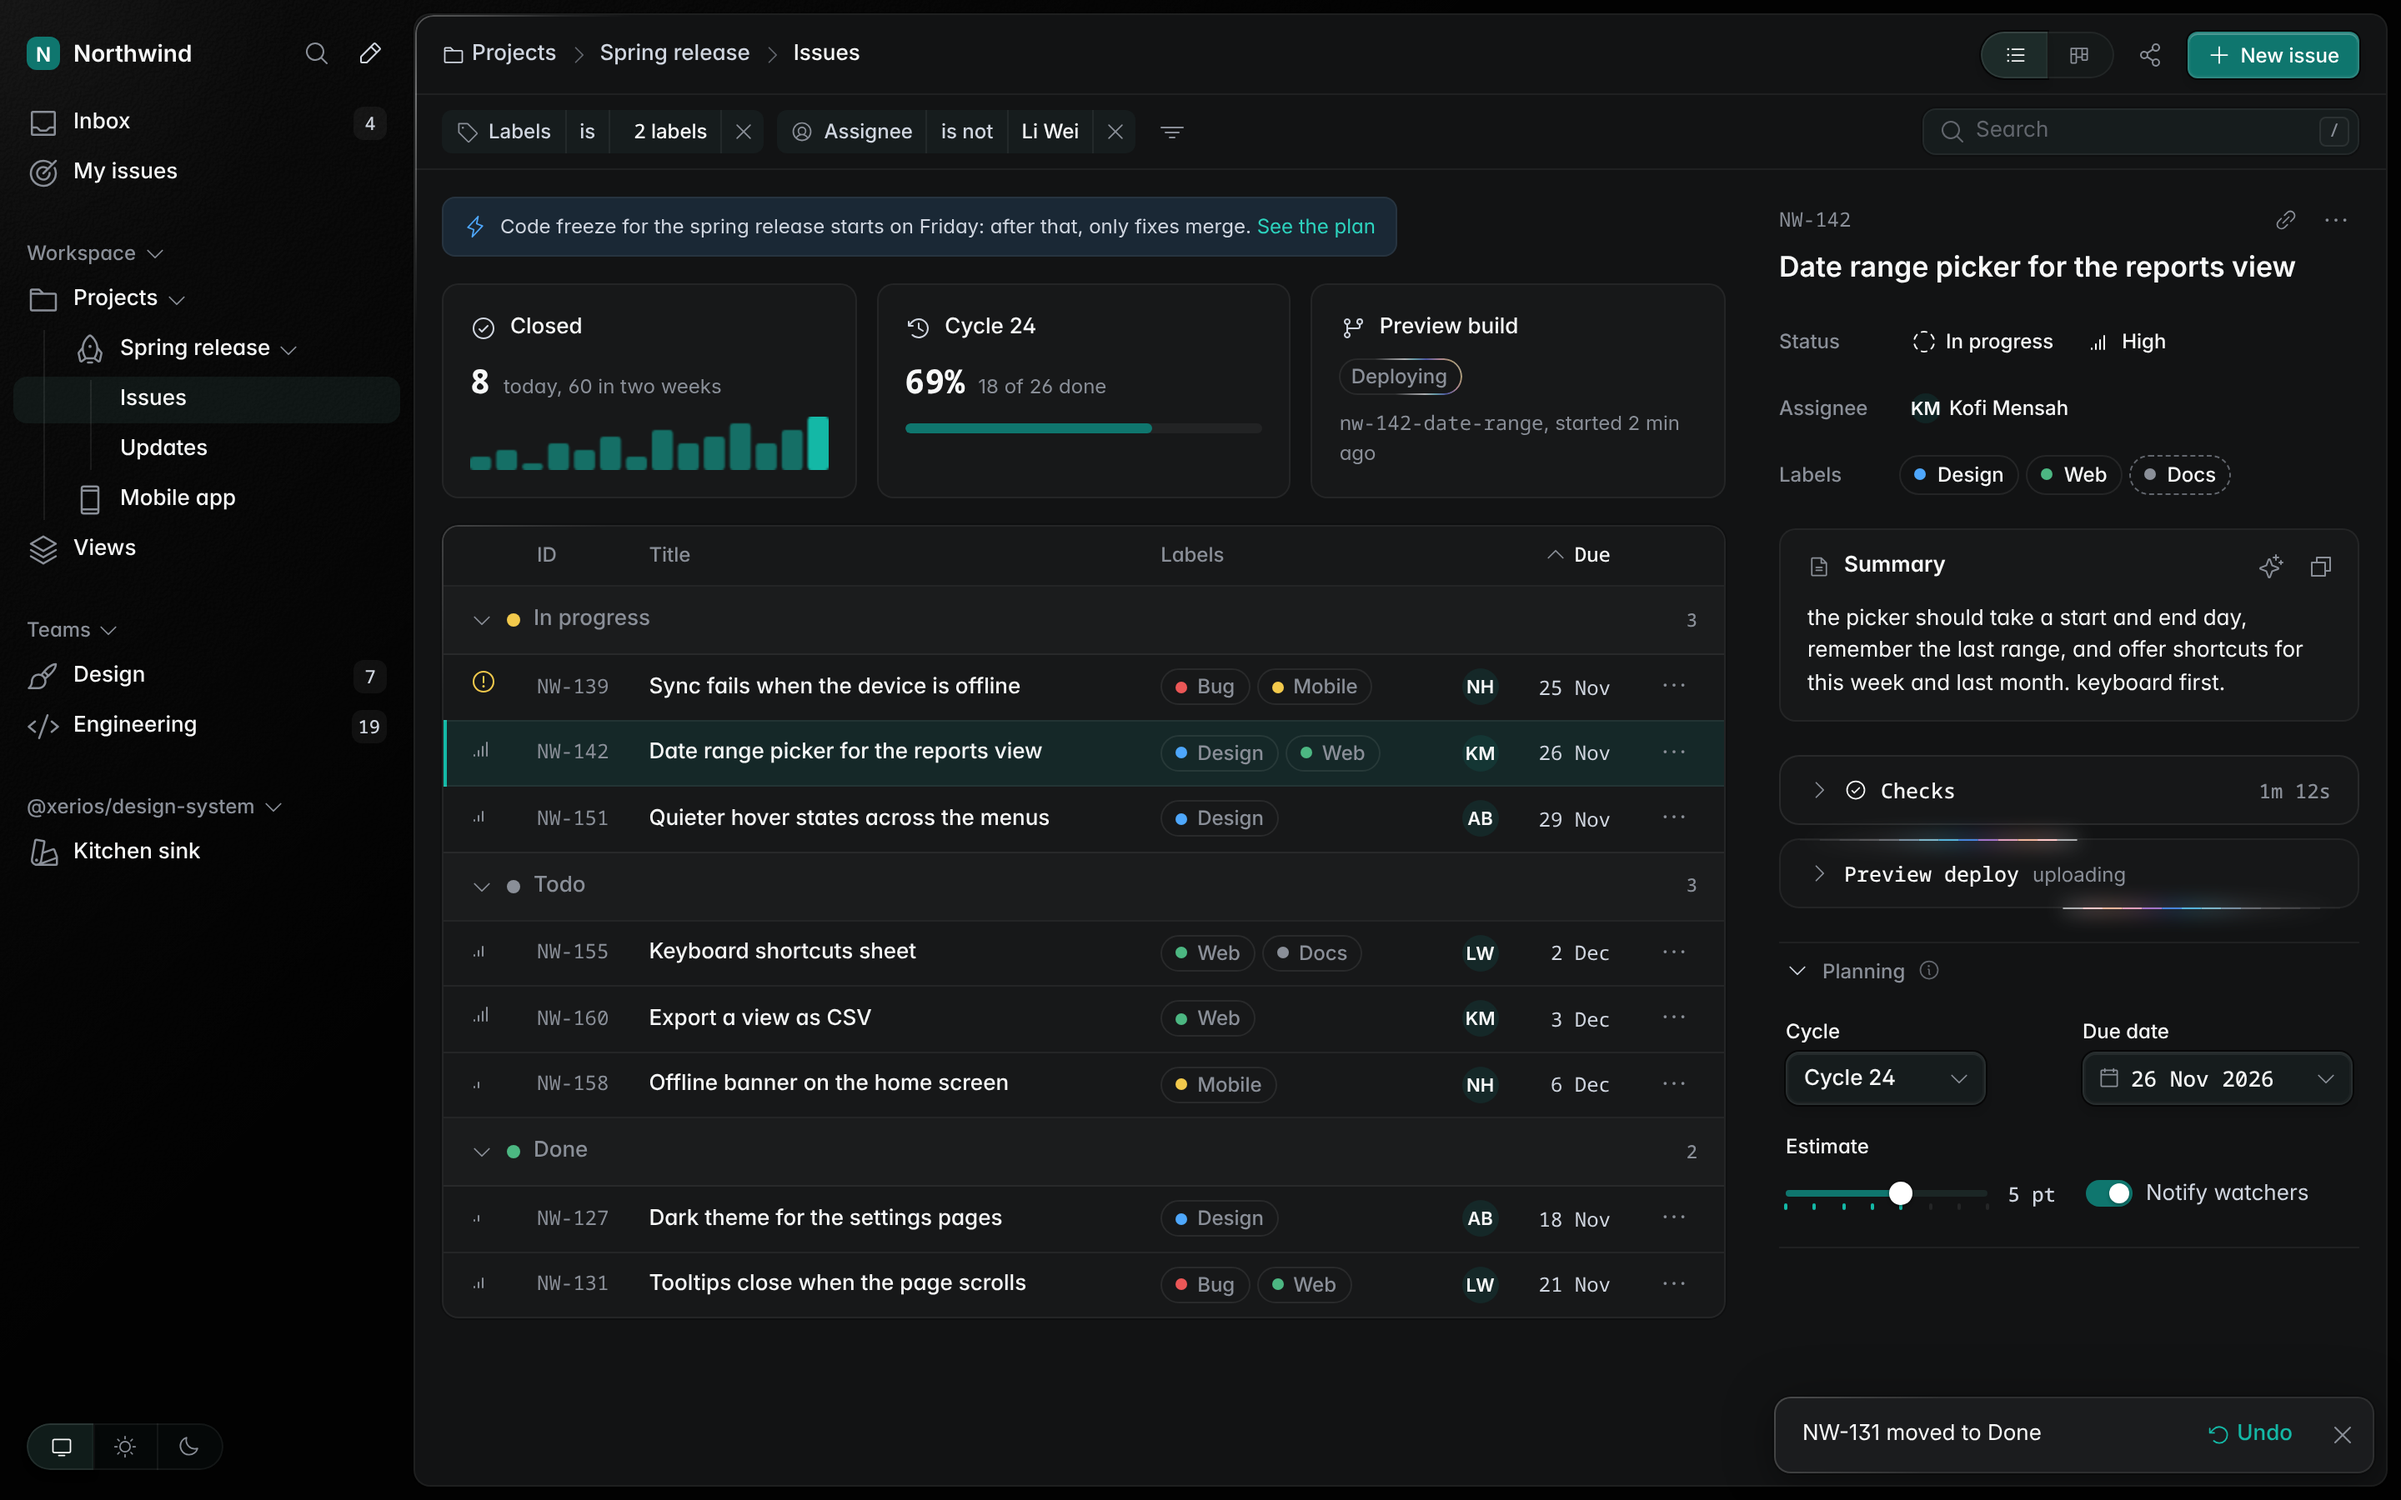
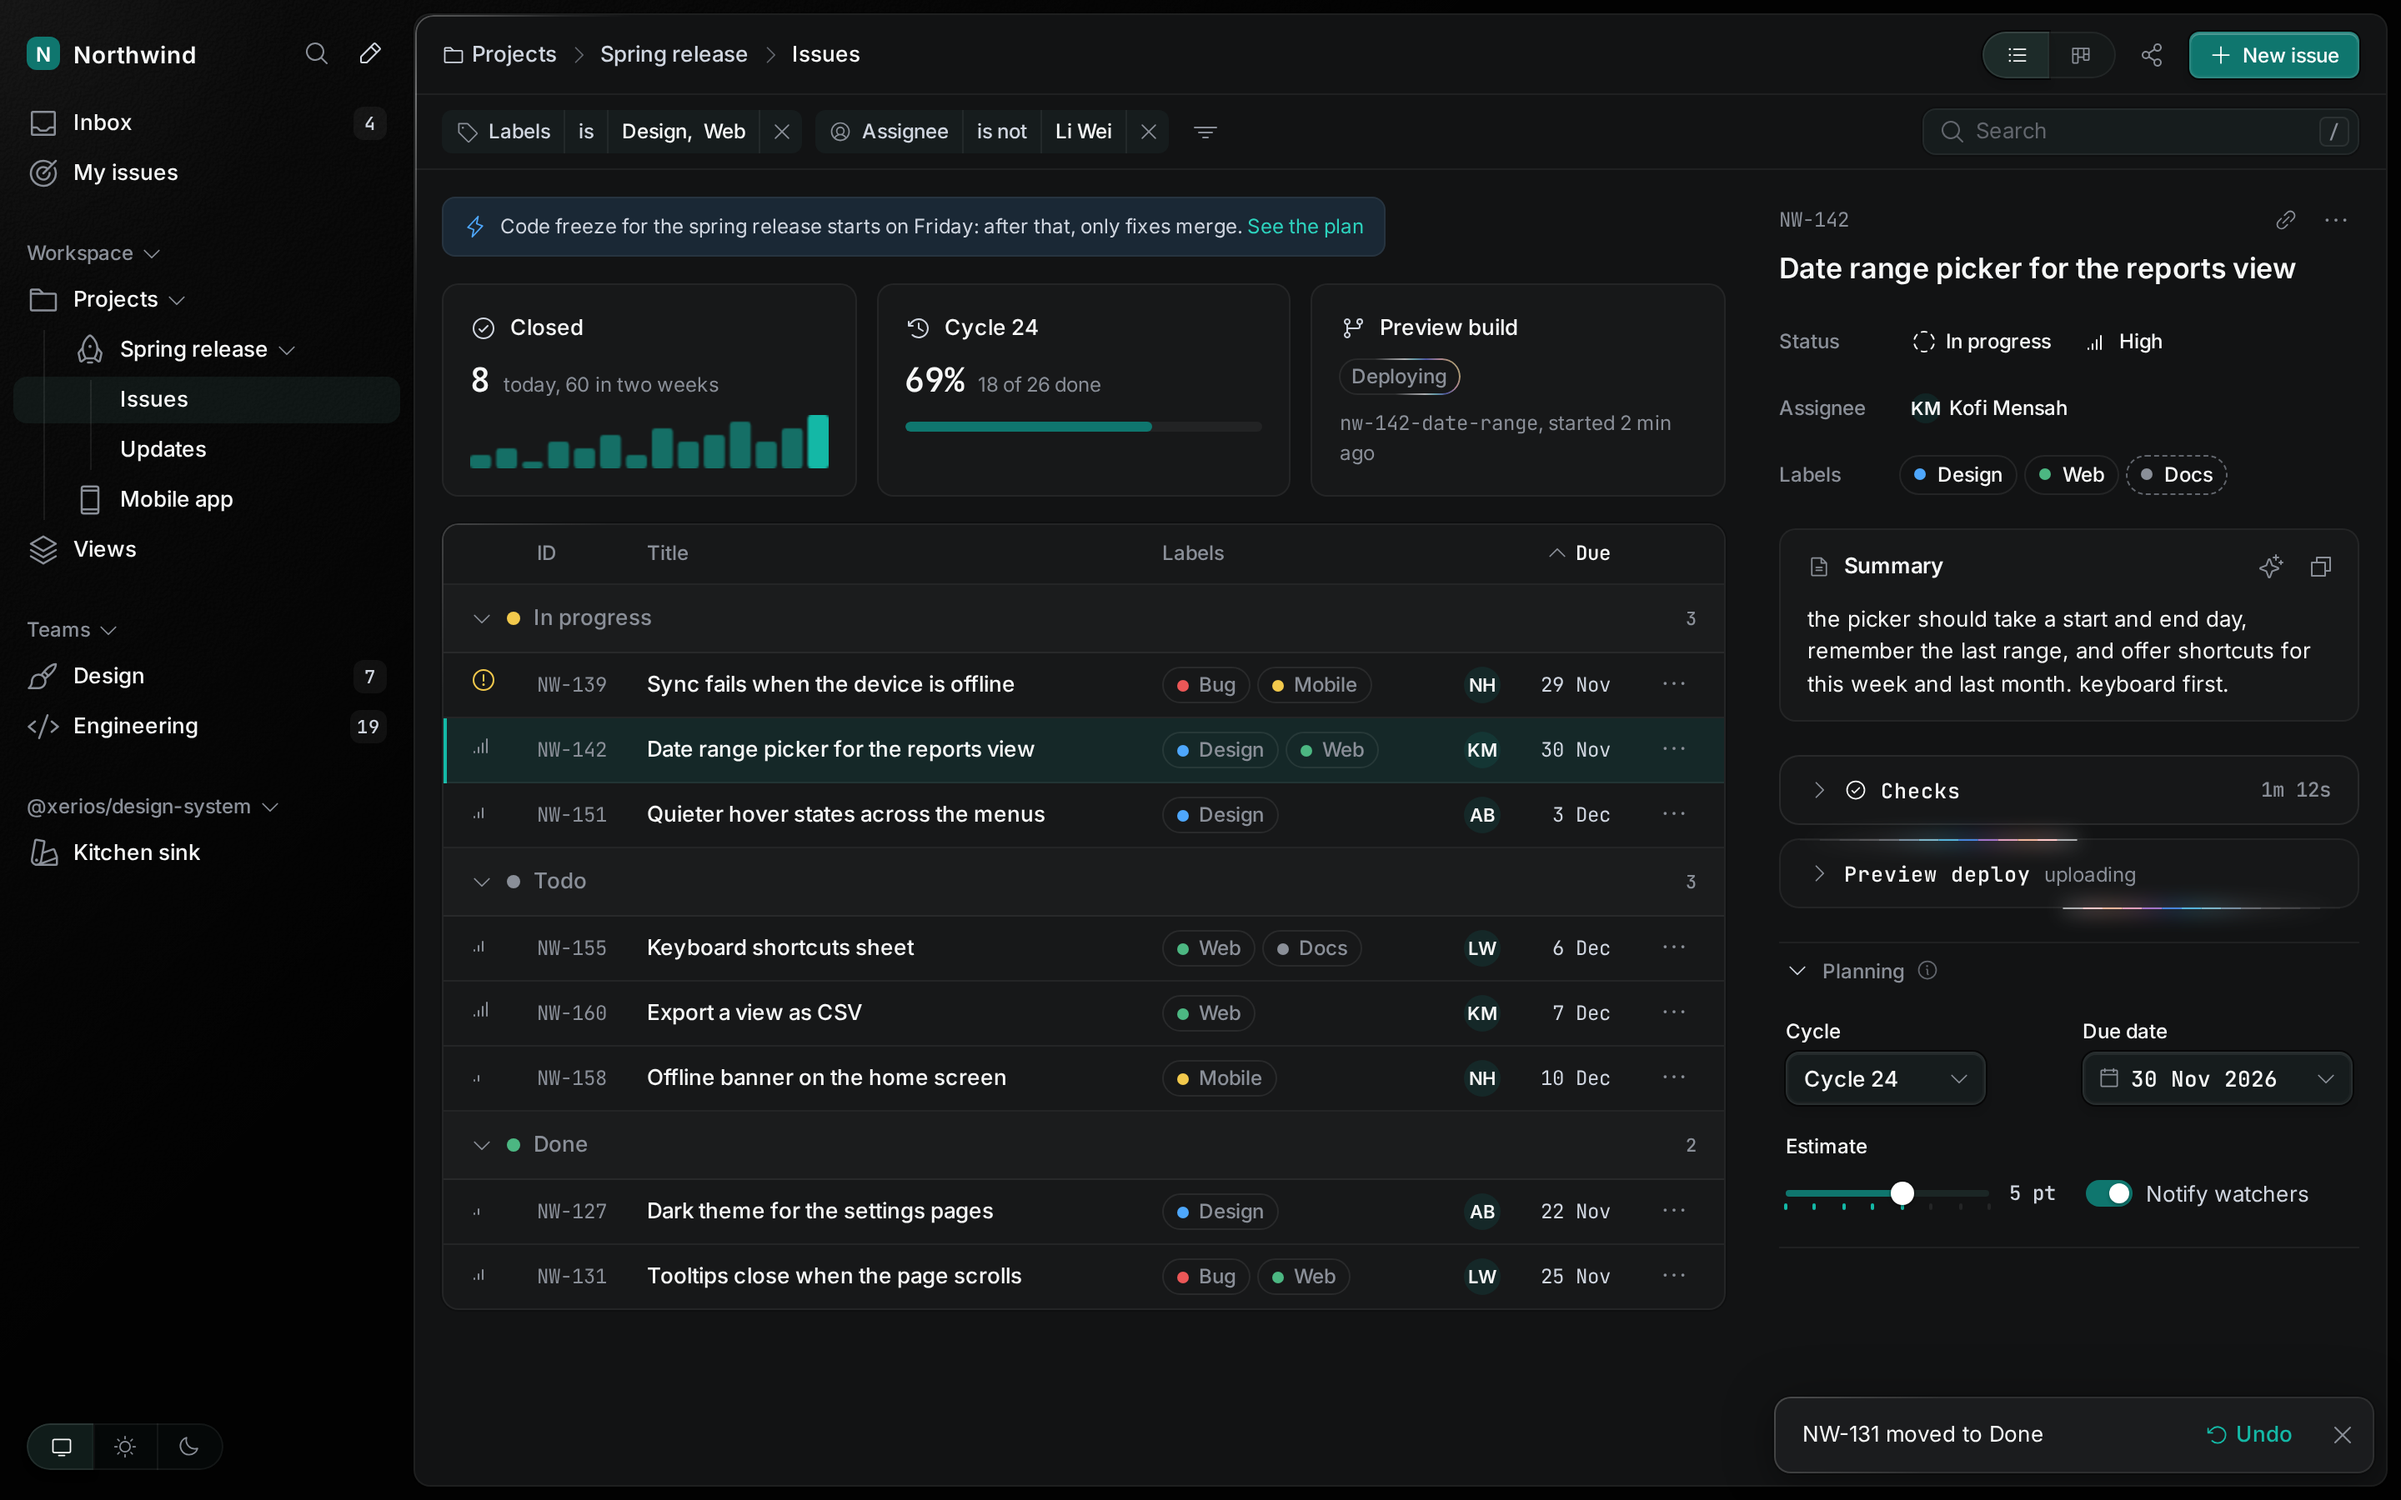
Release v0.3.0

diff --git a/CHANGELOG.md b/CHANGELOG.md
@@ -7,6 +7,8 @@ patch. Breaking entries are marked **Breaking** and say what to change in an app
 
 ## [Unreleased]
 
+## [0.3.0] - 2026-11-28
+
 ### Added
 
 - `InfoTip`: `text` for its description, and children to draw the tip's content yourself instead.
@@ -310,7 +312,8 @@ patch. Breaking entries are marked **Breaking** and say what to change in an app
 First release: theme tokens, global CSS (`base`, `effects`, `atoms`), the components listed in the README and the
 `lib/` helpers.
 
-[Unreleased]: https://github.com/Xerios/design-system/compare/v0.2.0...HEAD
+[Unreleased]: https://github.com/Xerios/design-system/compare/v0.3.0...HEAD
+[0.3.0]: https://github.com/Xerios/design-system/compare/v0.2.0...v0.3.0
 [0.2.0]: https://github.com/Xerios/design-system/compare/v0.1.6...v0.2.0
 [0.1.6]: https://github.com/Xerios/design-system/compare/v0.1.5...v0.1.6
 [0.1.5]: https://github.com/Xerios/design-system/compare/v0.1.4...v0.1.5
